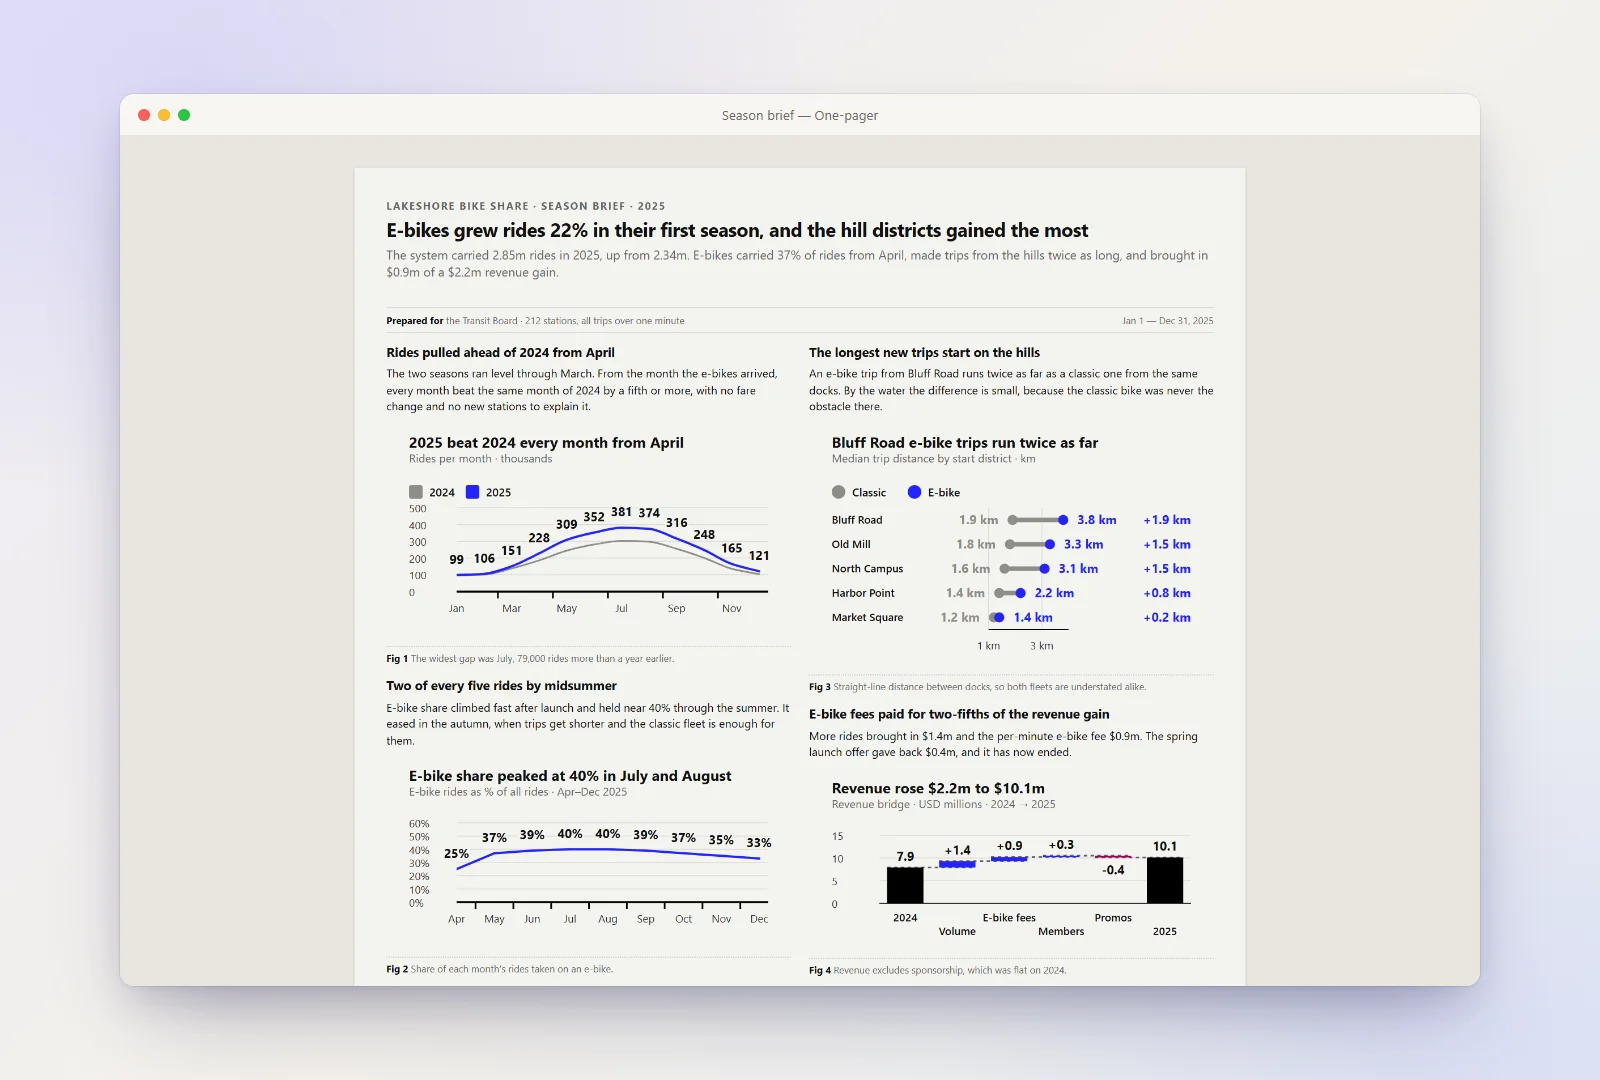
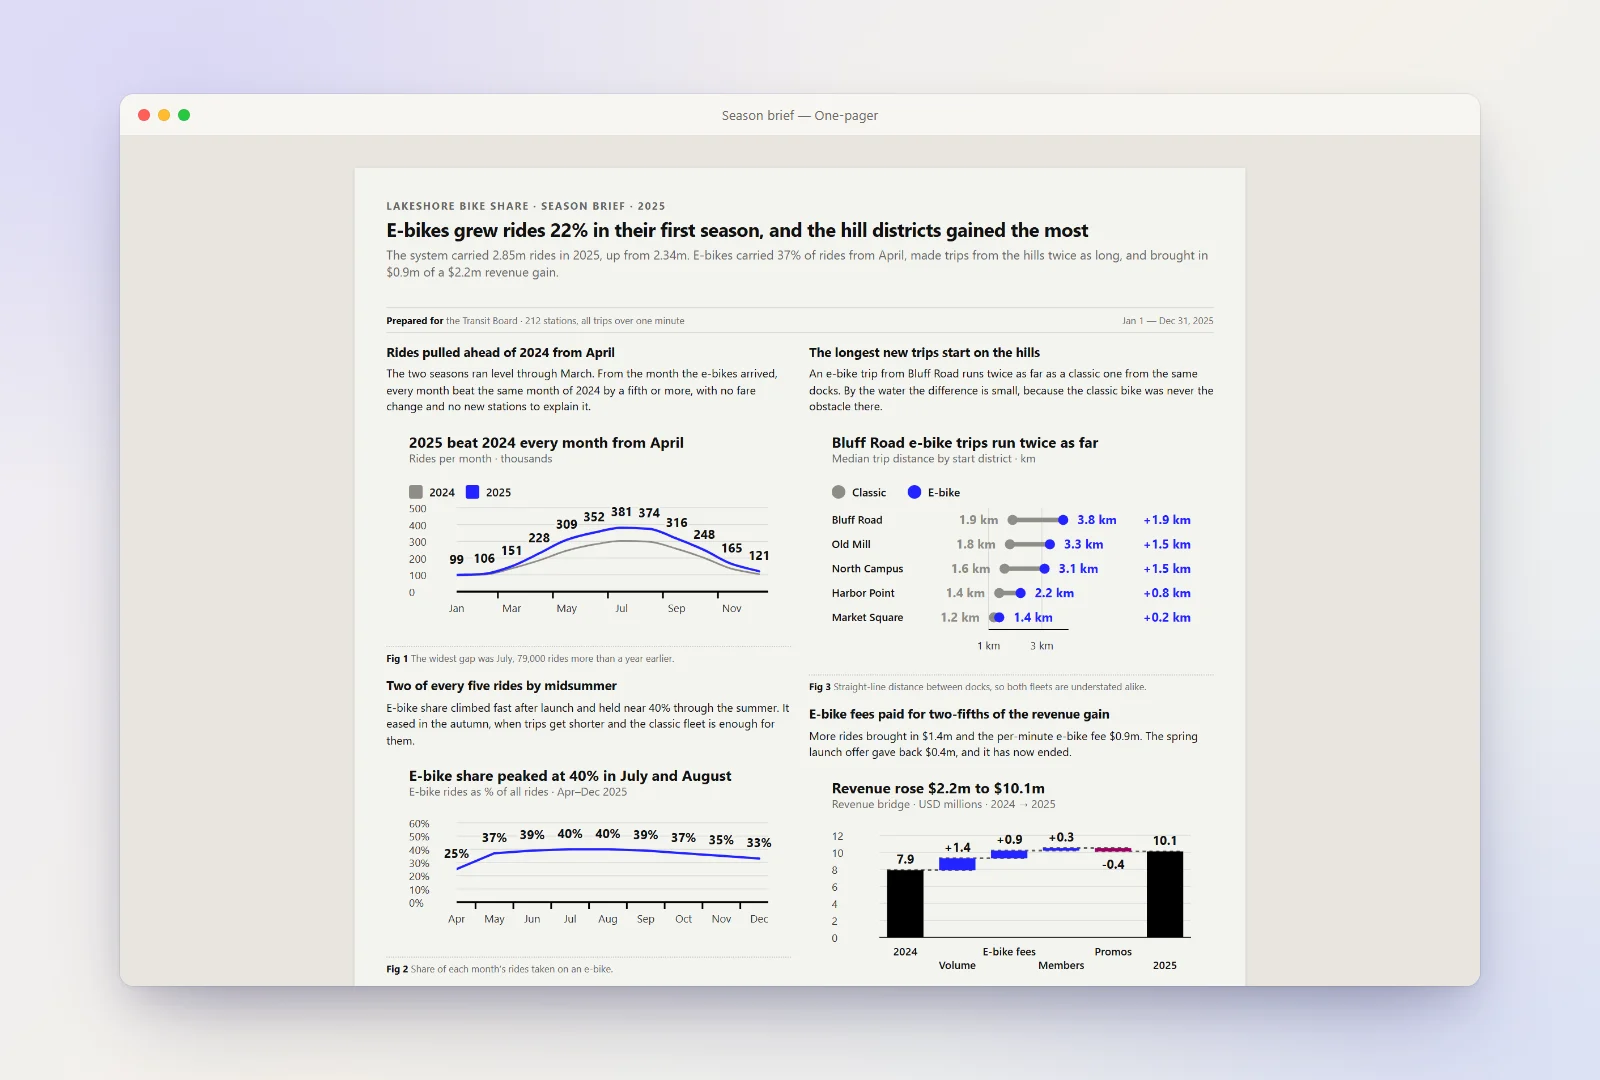
docs(readme): give the one-pager's revenue bridge room to read
The bridge figure had 160px, under the 60% floor check-page.js sets for
a waterfall on paper (the doc's budget for one is 180-200px). Its
yAxis.max of 15 also left a third of that empty above the 10.1 peak. It
now has 190px and a max of 12. Column 2 still fits the sheet (figures
hold 468 of 900px), the layout audit passes, and the one-pager image
and hero are rebuilt.

Changed region(s): [[0.5, 0.7639, 0.75, 0.9167]]

diff --git a/docs/readme/pages/onepager.html b/docs/readme/pages/onepager.html
@@ -356,7 +356,7 @@
                 <p>More rides brought in $1.4m and the per-minute e-bike fee $0.9m. The spring launch offer
                   gave back $0.4m, and it has now ended.</p>
               </div>
-              <figure class="fig" style="--fig-h:160px">
+              <figure class="fig" style="--fig-h:190px">
                 <div class="chart" id="c-bridge"></div>
                 <figcaption><b>Fig 4</b> Revenue excludes sponsorship, which was flat on 2024.</figcaption>
               </figure>
@@ -537,7 +537,7 @@ Charts.waterfall('c-bridge', {
   title: 'Revenue rose $2.2m to $10.1m',
   subtitle: 'Revenue bridge · USD millions · 2024 → 2025',
   legend: { enabled: false },
-  yAxis: { max: 15 },
+  yAxis: { max: 12 },
   series: [{ name: 'Revenue', data: [
     { name: '2024', y: 7.9, color: T.defaultColor },
     { name: 'Volume', y: 1.4 },
